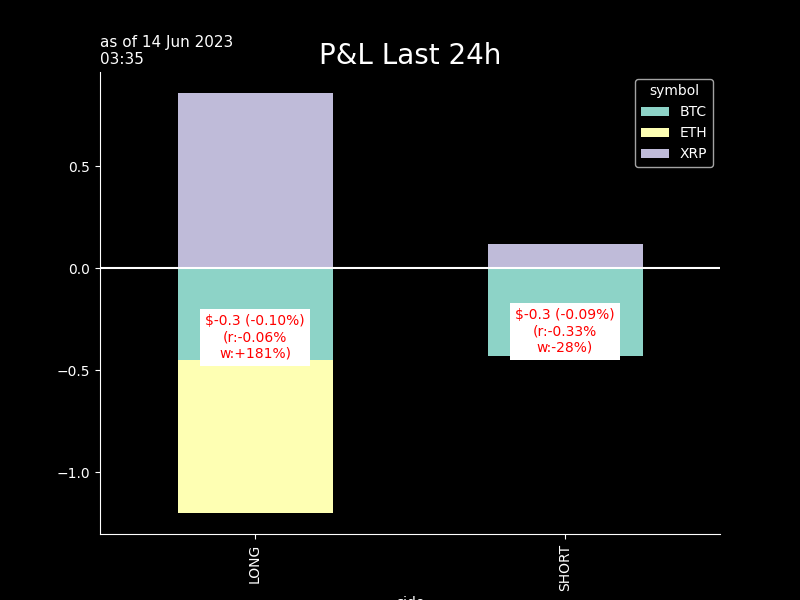
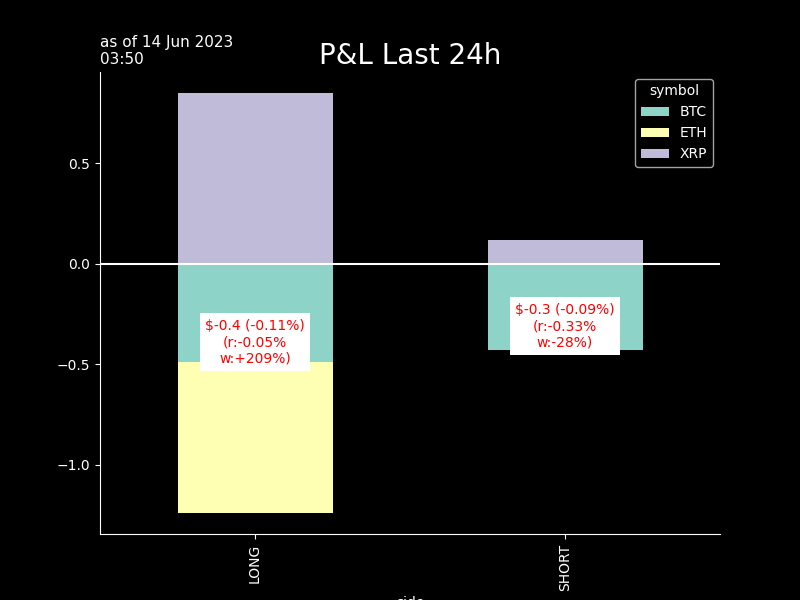
seb_commit

diff --git a/crypto/graphs/bt_trades_book.htmltrade_trades_book.html b/crypto/graphs/bt_trades_book.htmltrade_trades_book.html
@@ -37,38 +37,38 @@
   </thead>
   <tbody>
     <tr>
-      <th>XRPUSDT</th>
-      <td>0.51655</td>
-      <td>2023-06-14 02:34:17.500</td>
-      <td>166.000</td>
-      <td>$85.7</td>
-      <td>$0.02</td>
-      <td>2.8</td>
-      <td>0.1</td>
-      <td>0.51585</td>
-      <td>2023-06-14 03:32</td>
-      <td>-0.1</td>
-      <td>-14.0</td>
-      <td>.5165</td>
+      <th>BTCUSDT</th>
+      <td>26011.1000</td>
+      <td>2023-06-14 02:49:41</td>
+      <td>-0.002</td>
+      <td>$-52.0</td>
+      <td>$0.01</td>
+      <td>1.6</td>
       <td>-0.0</td>
-      <td>-1.0</td>
+      <td>26019.35000</td>
+      <td>2023-06-14 03:47</td>
+      <td>-0.0</td>
+      <td>-4.0</td>
+      <td>26011.3</td>
+      <td>-0.0</td>
+      <td>-0.0</td>
     </tr>
     <tr>
-      <th>BTCUSDT</th>
-      <td>26030.50000</td>
-      <td>2023-06-14 02:34:44.000</td>
-      <td>0.004</td>
-      <td>$104.1</td>
-      <td>$0.02</td>
+      <th>XRPUSDT</th>
+      <td>0.5166</td>
+      <td>2023-06-14 02:49:06</td>
+      <td>-83.000</td>
+      <td>$-42.9</td>
+      <td>$0.01</td>
       <td>1.6</td>
-      <td>-0.4</td>
-      <td>26013.15000</td>
-      <td>2023-06-14 03:32</td>
-      <td>-0.1</td>
-      <td>-7.0</td>
-      <td>26027.5</td>
       <td>-0.0</td>
-      <td>-1.0</td>
+      <td>0.51675</td>
+      <td>2023-06-14 03:47</td>
+      <td>-0.0</td>
+      <td>-2.0</td>
+      <td>.5166</td>
+      <td>0.0</td>
+      <td>0.0</td>
     </tr>
   </tbody>
 </table>

diff --git a/crypto/graphs/bt_trades_recap.htmltrade_trades_recap.html b/crypto/graphs/bt_trades_recap.htmltrade_trades_recap.html
@@ -9,33 +9,33 @@
   <tbody>
     <tr>
       <th>as of</th>
-      <td>14Jun 02:33&gt;&gt;02:35</td>
+      <td>14Jun 02:49&gt;&gt;02:49</td>
       <td>#trades: 2</td>
     </tr>
     <tr>
       <th>trade net</th>
-      <td>+190.0</td>
-      <td>+55.7%</td>
+      <td>-95.0</td>
+      <td>-27.9%</td>
     </tr>
     <tr>
       <th>trade gross</th>
-      <td>+190.0</td>
-      <td>+55.7%</td>
+      <td>+95.0</td>
+      <td>+27.9%</td>
     </tr>
     <tr>
       <th>BUY</th>
-      <td>+190.0</td>
-      <td>+55.7%</td>
-    </tr>
-    <tr>
-      <th>SELL</th>
       <td>+0.0</td>
       <td>+0.0%</td>
     </tr>
     <tr>
+      <th>SELL</th>
+      <td>-95.0</td>
+      <td>-27.9%</td>
+    </tr>
+    <tr>
       <th>fees</th>
-      <td>$ 0.041</td>
-      <td>2.14bp</td>
+      <td>$ 0.015</td>
+      <td>1.6bp</td>
     </tr>
   </tbody>
 </table>

diff --git a/crypto/graphs/bt_trades_pnlD_recap.htmltrade_trades_pnlD_recap.html b/crypto/graphs/bt_trades_pnlD_recap.htmltrade_trades_pnlD_recap.html
@@ -1,7 +1,7 @@
 <table border="1" class="dataframe">
   <thead>
     <tr style="text-align: right;">
-      <th>14 Jun 03:35</th>
+      <th>14 Jun 03:49</th>
       <th>realizedPnl</th>
       <th>PnLvsArrival</th>
       <th>PnLvsLast</th>
@@ -10,21 +10,21 @@
   <tbody>
     <tr>
       <th>in$</th>
-      <td>-0.3</td>
-      <td>-0.2</td>
+      <td>-0.1</td>
       <td>-0.0</td>
+      <td>0.0</td>
     </tr>
     <tr>
-      <th>in bp 189 traded</th>
-      <td>-16 bp</td>
-      <td>-10 bp</td>
-      <td>-1 bp</td>
-    </tr>
-    <tr>
-      <th>in bp 341 AUMs</th>
-      <td>-9 bp</td>
+      <th>in bp 94 traded</th>
       <td>-6 bp</td>
+      <td>-3 bp</td>
+      <td>0 bp</td>
+    </tr>
+    <tr>
+      <th>in bp 340 AUMs</th>
+      <td>-2 bp</td>
       <td>-1 bp</td>
+      <td>0 bp</td>
     </tr>
   </tbody>
 </table>
